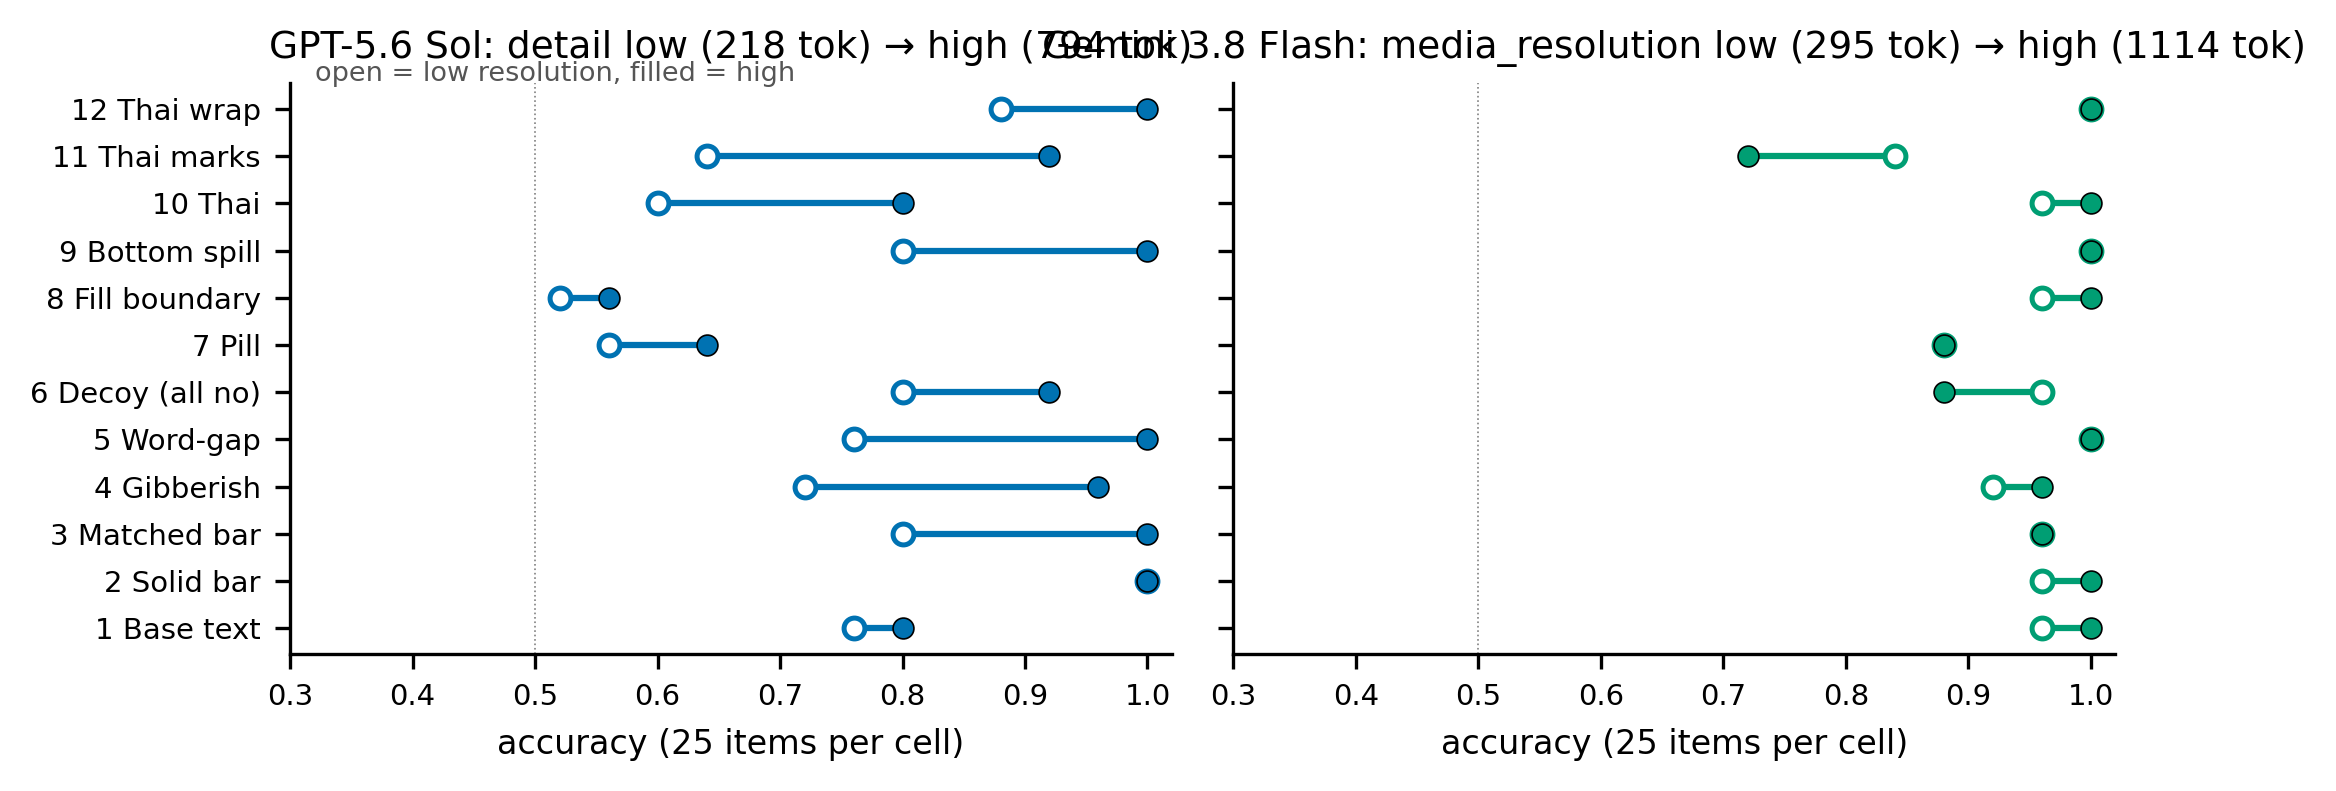
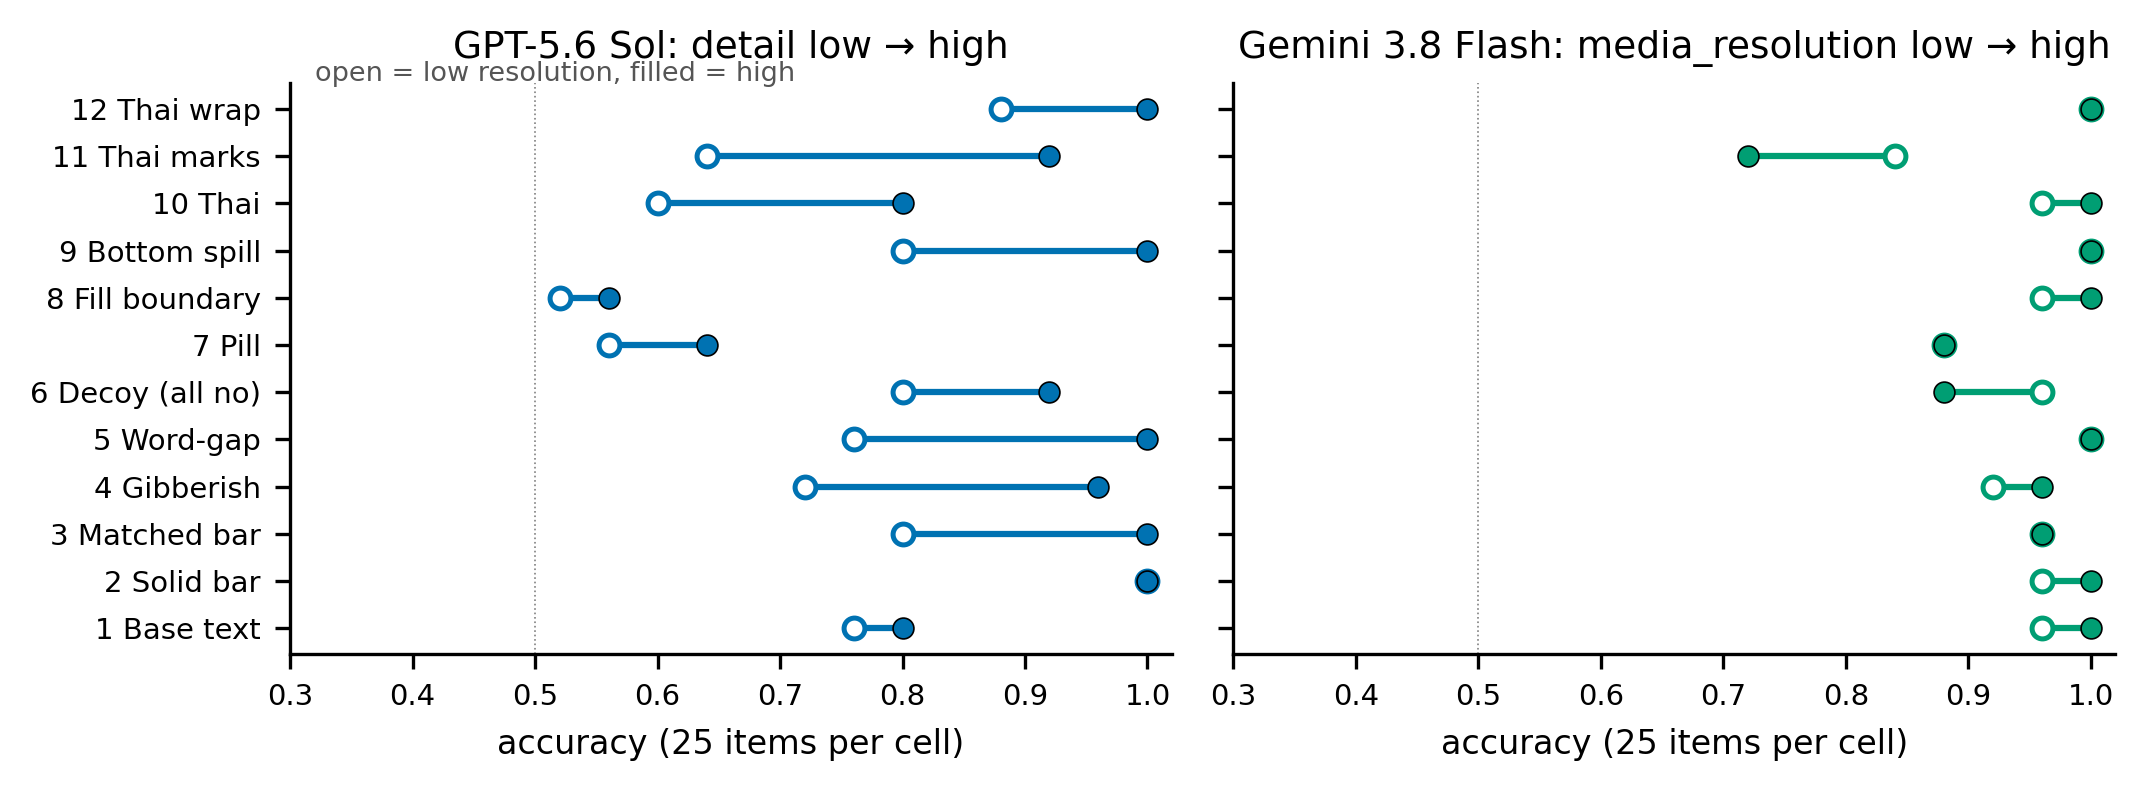
Regenerate figures: cell-11 stimulus at +3 px (below-line vowel), shorter resolution titles, two-line model labels

diff --git a/eval/figures.py b/eval/figures.py
@@ -239,7 +239,7 @@ def fig_resolution():
         ax.invert_yaxis()
         ax.set_xlim(0.3, 1.02)
         ax.set_xlabel("accuracy (25 items per cell)")
-        tok = {"gpt56sol": "detail low (218 tok) → high (794 tok)", "gemini38": "media_resolution low (295 tok) → high (1114 tok)"}
+        tok = {"gpt56sol": "detail low → high", "gemini38": "media_resolution low → high"}
         ax.set_title(f"{NAME[s]}: {tok[s]}")
         ax.axvline(0.5, color="grey", lw=0.4, ls=":")
     axes[0].text(0.32, 11.6, "open = low resolution, filled = high", fontsize=6.5, color="#555555")
@@ -388,7 +388,7 @@ def fig_flips():
         ax.bar(x + (j - 0.5) * 0.38, ys, 0.38, color=[COLOR[s] for s in SLOTS], alpha=1.0 if setting == "off" else 0.45,
                edgecolor="black", lw=0.3, label=f"reasoning {setting}")
     ax.set_xticks(x)
-    ax.set_xticklabels([NAME[s].replace(" ", "\n", 1) for s in SLOTS], fontsize=6)
+    ax.set_xticklabels([NAME[s].replace("GLM-5.3-Flash", "GLM-5.3 Flash").replace(" ", "\n", 1) for s in SLOTS], fontsize=6)
     ax.set_ylabel("share of items whose 3 repeats disagree")
     ax.set_title("Self-consistency at temperature 0")
     ax.legend(frameon=False)
@@ -414,9 +414,9 @@ def fig_stimuli():
     from PIL import Image, ImageDraw, ImageFont
     picks = [("c01_base", "p4", "en02"), ("c02_bar", "p4", "en02"), ("c03_matched", "p4", "en02"), ("c04_gibberish", "p4", "en02"),
              ("c05_wordgap", "short", "en02"), ("c06_decoy", "incomplete_gTwin", "en02"), ("c07_pill", "corner", "pill02"),
-             ("c08_fill", "p4", "en02"), ("c09_bottom", "p4", "para02"), ("c10_thai", "p4", "th02"), ("c11_marks", "p6", "thm02"),
+             ("c08_fill", "p4", "en02"), ("c09_bottom", "p4", "para02"), ("c10_thai", "p4", "th02"), ("c11_marks", "p3", "thm11"),
              ("c12_thaiwrap", "p4", "thp02")]
-    LAB = {"p4": "+4 px", "p6": "+6 px", "short": "short word spills", "incomplete_gTwin": "control 4 px away (fits)", "corner": "corner-cross"}
+    LAB = {"p4": "+4 px", "p3": "+3 px", "p6": "+6 px", "short": "short word spills", "incomplete_gTwin": "control 4 px away (fits)", "corner": "corner-cross"}
     man = {r["item"]: r for r in _man.to_dict("records")}
     tiles = []
     for cell, level, sid in picks:
